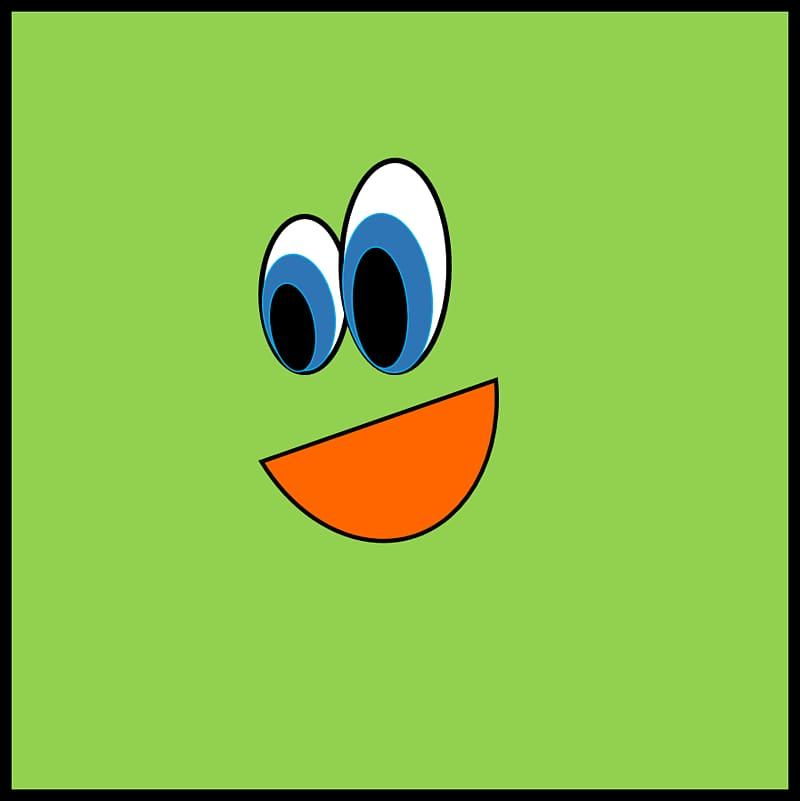
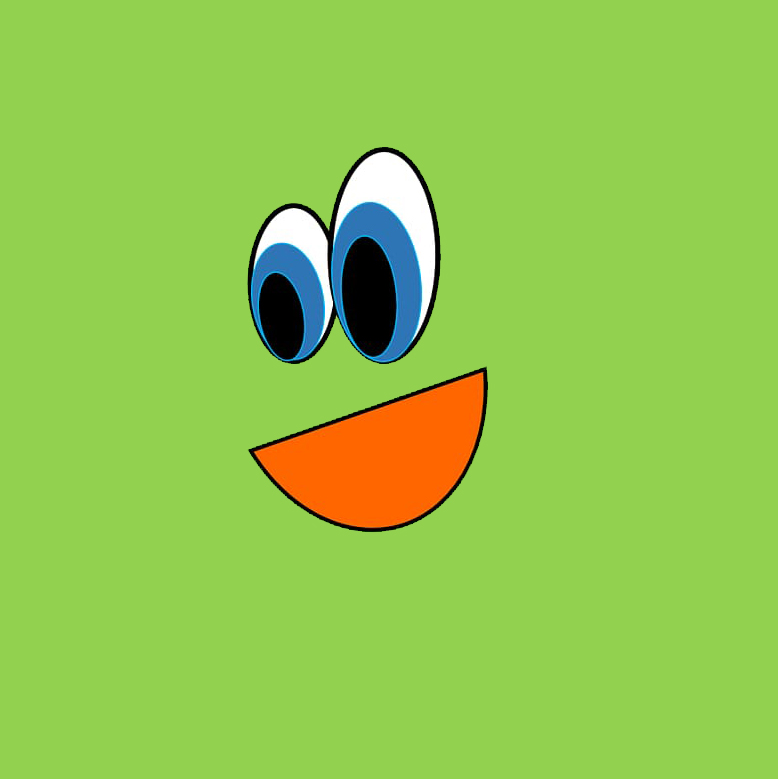
solved movement, but still in test mode. Menus broken (to fix movement). Added image for Patty, so it's not just a rectangle (to be fixed in the future)

diff --git a/src/GameFrame.java b/src/GameFrame.java
@@ -4,9 +4,9 @@ import java.awt.*;
 public class GameFrame extends JFrame
 {
     private static JFrame frame;
-    private static MenuPanel menu;
+//    private static MenuPanel menu;
     private static GamePanel game;
-    private static InstructionsPanel instructions;
+//    private static InstructionsPanel instructions;
     private static int panelNum = 0;
 
     // constructor
@@ -18,24 +18,24 @@ public class GameFrame extends JFrame
 
         // creates the panel
         game = new GamePanel();
-        menu = new MenuPanel();
-        instructions = new InstructionsPanel();
+//        menu = new MenuPanel();
+//        instructions = new InstructionsPanel();
 
-        menu.setPreferredSize(new Dimension(1100,700));
+//        menu.setPreferredSize(new Dimension(1100,700));
         game.setPreferredSize(new Dimension(1100,700));
-        instructions.setPreferredSize(new Dimension(1100,700));
+//        instructions.setPreferredSize(new Dimension(1100,700));
 
         // add menu panel to the frame
-        frame.getContentPane().add(menu);
+        frame.getContentPane().add(game);
     }
-    public static JFrame getFrame()
-    {
-        return frame;
-    }
+//    public static JFrame getFrame()
+//    {
+//        return frame;
+//    }
 
-    public static void setPanelNum(int x)
-    {
-    }
+//    public static void setPanelNum(int x)
+//    {
+//    }
 
     // shows the frame
     public static void display() // potentially make this static
@@ -44,24 +44,24 @@ public class GameFrame extends JFrame
         frame.setVisible(true);
     }
 
-    public static void changePanel(int x)
-    {
-        panelNum = x;
-        if(panelNum == 3)
-        {
-            frame.getContentPane().removeAll();
-            frame.getContentPane().add(game);
-        }
-        else if(panelNum == 1)
-        {
-            frame.getContentPane().removeAll();
-            frame.getContentPane().add(menu);
-        }
-        else if(panelNum == 2)
-        {
-            frame.getContentPane().removeAll();
-            frame.getContentPane().add(instructions);
-        }
-        display();
-    }
+//    public static void changePanel(int x)
+//    {
+//        panelNum = x;
+//        if(panelNum == 3)
+//        {
+//            frame.getContentPane().removeAll();
+//            frame.getContentPane().add(game);
+//        }
+//        else if(panelNum == 1)
+//        {
+//            frame.getContentPane().removeAll();
+//            frame.getContentPane().add(menu);
+//        }
+//        else if(panelNum == 2)
+//        {
+//            frame.getContentPane().removeAll();
+//            frame.getContentPane().add(instructions);
+//        }
+//        display();
+//    }
 }

diff --git a/src/GamePanel.java b/src/GamePanel.java
@@ -12,6 +12,8 @@ public class GamePanel extends JPanel implements ActionListener, KeyListener
 
     private int changeX = 0;
     private int changeY = 0;
+    private Image myImg;
+
 
 
     public GamePanel()
@@ -25,19 +27,22 @@ public class GamePanel extends JPanel implements ActionListener, KeyListener
         setFocusTraversalKeysEnabled(false);
 
         p = new Patty(30, 30);
+        p.drawImg();
     }
 
     public void paintComponent (Graphics g)
     {
         super.paintComponent(g);
-        //g.drawImage(p.getImg(),p.getLocX(),p.getLocY(), null);
-        g.fillRect(p.getLocX(),p.getLocY(),80,80);
+
+        g.drawImage(p.getImg(50, 50),p.getLocX(),p.getLocY(), this);
+        //g.fillRect(p.getLocX(),p.getLocY(),80,80); // makes a rectangle
     }
 
     public void actionPerformed (ActionEvent e)
     {
         //System.out.println("LocX before change: " + p.getLocX());
         p.changeX(changeX);
+        p.changeY(changeY);
         //System.out.println("LocX after change: " + p.getLocX());
         repaint();
         //repaint(p.getLocX(), p.getLocY(), 80, 80);
@@ -50,21 +55,21 @@ public class GamePanel extends JPanel implements ActionListener, KeyListener
         {
             System.out.println("KeyEvent left occurred");
 
-            changeX = -50;
+            changeX = -2;
         }
         if (c == KeyEvent.VK_RIGHT)
         {
             System.out.println("KeyEvent right occurred");
 
-            changeX = 50;
+            changeX = 2;
         }
         if (c == KeyEvent.VK_UP)
         {
-            p.changeY(-2);
+            changeY = -2;
         }
         if (c == KeyEvent.VK_DOWN)
         {
-            p.changeY(2);
+            changeY = 2;
         }
     }
 
@@ -73,11 +78,11 @@ public class GamePanel extends JPanel implements ActionListener, KeyListener
         int c = e.getKeyCode();
         if (c == KeyEvent.VK_LEFT || c == KeyEvent.VK_RIGHT)
         {
-            p.changeX(0);
+            changeX = 0;
         }
         if (c == KeyEvent.VK_UP || c == KeyEvent.VK_DOWN)
         {
-            p.changeY(0);
+            changeY = 0;
         }
     }
 

diff --git a/src/Patty.java b/src/Patty.java
@@ -1,16 +1,19 @@
+import javax.imageio.ImageIO;
 import javax.swing.*;
 import java.awt.*;
+import java.io.IOException;
+import java.net.URL;
 
 
 public class Patty extends JComponent
 {
     // instance variables
     private int lives;
-    private int locX = 0;
-    private int locY = 0;
+    private int locX;
+    private int locY;
     private int changeX = 0;
     private int changeY = 0;
-    Image img = new ImageIcon("square.jpg").getImage();
+    private Image img;
 
     // constructor
     public Patty(int x, int y)
@@ -20,11 +23,6 @@ public class Patty extends JComponent
         locY = 30;
     }
 
-//    public void paintComponent(Graphics g)
-//    {
-//        g.setColor(Color.red);
-//        g.fillRect(locX,locY,80,80);
-//    }
 
     public int getLocX()
     {
@@ -38,10 +36,21 @@ public class Patty extends JComponent
     {
         return lives;
     }
-    public Image getImg()
+
+    public void drawImg()
     {
-        return img;
+        URL resource = getClass().getResource("square.jpg");
+        try {
+            img = ImageIO.read(resource);
+        } catch (IOException e) {
+            e.printStackTrace();
+        }
     }
+    public Image getImg(int w, int h)
+    {
+        return img.getScaledInstance(w, h, Image.SCALE_SMOOTH);
+    }
+
 
     public void changeX(int x)
     {
@@ -52,9 +61,5 @@ public class Patty extends JComponent
     {
         locY += y;
     }
-//    public void repaint()
-//    {
-//        repaint(locX,locY,80,80);
-//        System.out.println("repaint");
-//    }
+
 }

diff --git a/src/MenuPanel.java b/src/MenuPanel.java
@@ -26,15 +26,15 @@ public class MenuPanel extends JPanel implements ActionListener, KeyListener
 
     @Override
     public void actionPerformed(ActionEvent e) {
-        String action = e.getActionCommand();
-        if (action.equals("Start"))
-        {
-            GameFrame.changePanel(3);
-        }
-        if (action.equals("Instructions"))
-        {
-            GameFrame.changePanel(2);
-        }
+//        String action = e.getActionCommand();
+//        if (action.equals("Start"))
+//        {
+//            GameFrame.changePanel(3);
+//        }
+//        if (action.equals("Instructions"))
+//        {
+//            GameFrame.changePanel(2);
+//        }
     }
 
     @Override

diff --git a/src/InstructionsPanel.java b/src/InstructionsPanel.java
@@ -19,11 +19,11 @@ public class InstructionsPanel extends JPanel implements ActionListener, KeyList
 
     @Override
     public void actionPerformed(ActionEvent e) {
-        String action = e.getActionCommand();
-        if (action.equals("Menu"))
-        {
-            GameFrame.changePanel(1);
-        }
+//        String action = e.getActionCommand();
+//        if (action.equals("Menu"))
+//        {
+//            GameFrame.changePanel(1);
+//        }
     }
 
     @Override
